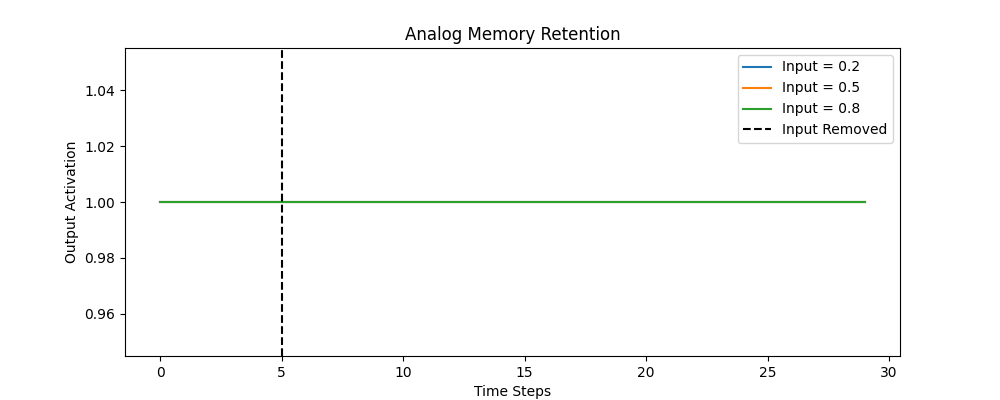
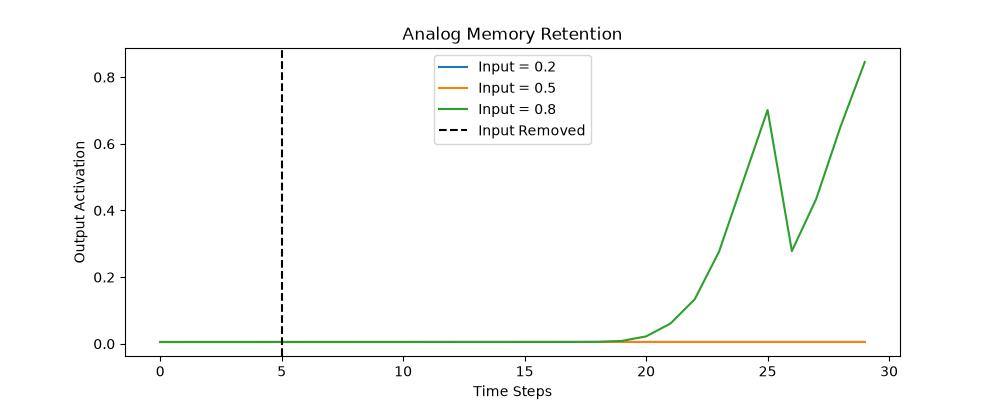
Fix threshold detection and analog memory trials carrying state over
ThresholdLogicComputer.threshold_detection and analog_memory ran each
signal strength / stored value on whatever state the previous trial left
in the network (membrane potentials, refractory counters, slow internal
state), so a result depended on which values had been tested before it
and on any simulation run earlier. Units and the network now have
reset(), and each trial starts from rest. Connections and unit
parameters are unchanged; temporal_integration is a single run and is
unchanged.

ThresholdLogicComputer moved to threshold_logic.py (re-exported from
threshold_computing and the package) to keep the module under 500 lines.
threshold_detection.png and analog_memory.png regenerated by the demo.

diff --git a/threshold_computing/threshold_computing.py b/threshold_computing/threshold_computing.py
@@ -42,6 +42,13 @@ class ThresholdComputingUnit:
         self.activation = 0.0  # Output activation level
         self.refractory_countdown = 0  # Refractory period counter
         self.internal_state = 0.0  # Internal memory (analogous to slow calcium buffers)
+
+    def reset(self):
+        """Return the unit to rest (parameters are kept)."""
+        self.membrane_potential = 0.0
+        self.activation = 0.0
+        self.refractory_countdown = 0
+        self.internal_state = 0.0
     
     def update(self, input_signal):
         """
@@ -141,6 +148,13 @@ class ThresholdComputingNetwork:
         
         return connections
     
+    def reset(self):
+        """Return every unit to rest and clear the history (connections and unit parameters are kept)."""
+        for unit in self.units.flat:
+            unit.reset()
+        self.activation_history = []
+        self.membrane_potential_history = []
+
     def set_input(self, input_pattern):
         """Set input to the network"""
         # Validate input pattern shape
@@ -331,90 +345,11 @@ class ThresholdComputingNetwork:
         
         return ani
 
-# Example application: Signal integration and threshold-based computation
-class ThresholdLogicComputer:
-    def __init__(self, network):
-        self.network = network
-    
-    def temporal_integration(self, input_sequence, duration=50):
-        """
-        Demonstrate temporal integration of weak signals.
-        
-        Parameters:
-        - input_sequence: Sequence of input patterns
-        - duration: Duration to run the simulation
-        
-        Returns:
-        - output_sequence: Sequence of outputs
-        """
-        # Pad input sequence if needed
-        if len(input_sequence) < duration:
-            padded_sequence = input_sequence + [np.zeros(len(self.network.input_region))] * (duration - len(input_sequence))
-        else:
-            padded_sequence = input_sequence[:duration]
-        
-        # Run simulation
-        outputs = self.network.run_simulation(steps=duration, input_patterns=padded_sequence)
-        
-        return outputs
-    
-    def threshold_detection(self, signal_strengths, duration_per_signal=20):
-        """
-        Demonstrate threshold detection with varying signal strengths.
-        
-        Parameters:
-        - signal_strengths: List of signal strengths to test
-        - duration_per_signal: Duration to apply each signal
-        
-        Returns:
-        - detection_results: Whether each signal was detected
-        """
-        detection_results = []
-        
-        for strength in signal_strengths:
-            # Create input pattern with given strength
-            input_pattern = [strength] * len(self.network.input_region)
-            input_sequence = [input_pattern] * duration_per_signal
-            
-            # Run simulation
-            outputs = self.network.run_simulation(steps=duration_per_signal, input_patterns=input_sequence)
-            
-            # Check if output exceeded detection threshold (0.5)
-            max_output = max([max(output) for output in outputs])
-            detected = max_output > 0.5
-            
-            detection_results.append((strength, max_output, detected))
-        
-        return detection_results
-    
-    def analog_memory(self, input_values, retention_time=30):
-        """
-        Demonstrate analog memory capabilities.
-        
-        Parameters:
-        - input_values: Input values to store
-        - retention_time: How long to check retention
-        
-        Returns:
-        - memory_trace: How values are retained over time
-        """
-        memory_traces = []
-        
-        for value in input_values:
-            # Set input
-            input_pattern = [value] * len(self.network.input_region)
-            
-            # Apply input for 5 steps then remove
-            input_sequence = [input_pattern] * 5 + [np.zeros(len(self.network.input_region))] * (retention_time - 5)
-            
-            # Run simulation
-            outputs = self.network.run_simulation(steps=retention_time, input_patterns=input_sequence)
-            
-            # Track output over time
-            output_trace = [max(output) for output in outputs]
-            memory_traces.append((value, output_trace))
-        
-        return memory_traces
+# Example applications (temporal integration, threshold detection, analog memory) live in threshold_logic.py
+if __package__:
+    from .threshold_logic import ThresholdLogicComputer
+else:  # run as a script
+    from threshold_logic import ThresholdLogicComputer  # noqa: E402
 
 # Example usage
 if __name__ == "__main__":

diff --git a/threshold_computing/threshold_logic.py b/threshold_computing/threshold_logic.py
@@ -1,0 +1,104 @@
+"""
+ThresholdLogicComputer -- applications of a ThresholdComputingNetwork.
+
+Temporal integration of weak signals, threshold detection over a range of
+signal strengths, and analog memory traces.
+"""
+
+import numpy as np
+
+
+class ThresholdLogicComputer:
+    def __init__(self, network):
+        self.network = network
+    
+    def temporal_integration(self, input_sequence, duration=50):
+        """
+        Demonstrate temporal integration of weak signals.
+        
+        Parameters:
+        - input_sequence: Sequence of input patterns
+        - duration: Duration to run the simulation
+        
+        Returns:
+        - output_sequence: Sequence of outputs
+        """
+        # Pad input sequence if needed
+        if len(input_sequence) < duration:
+            padded_sequence = input_sequence + [np.zeros(len(self.network.input_region))] * (duration - len(input_sequence))
+        else:
+            padded_sequence = input_sequence[:duration]
+        
+        # Run simulation
+        outputs = self.network.run_simulation(steps=duration, input_patterns=padded_sequence)
+        
+        return outputs
+    
+    def threshold_detection(self, signal_strengths, duration_per_signal=20):
+        """
+        Demonstrate threshold detection with varying signal strengths.
+        
+        Parameters:
+        - signal_strengths: List of signal strengths to test
+        - duration_per_signal: Duration to apply each signal
+        
+        Returns:
+        - detection_results: Whether each signal was detected
+
+        Each strength is tested on the network reset to rest, so results do not
+        depend on the order of signal_strengths.
+        """
+        detection_results = []
+        
+        for strength in signal_strengths:
+            # Each strength is tested on the network at rest
+            self.network.reset()
+
+            # Create input pattern with given strength
+            input_pattern = [strength] * len(self.network.input_region)
+            input_sequence = [input_pattern] * duration_per_signal
+            
+            # Run simulation
+            outputs = self.network.run_simulation(steps=duration_per_signal, input_patterns=input_sequence)
+            
+            # Check if output exceeded detection threshold (0.5)
+            max_output = max([max(output) for output in outputs])
+            detected = max_output > 0.5
+            
+            detection_results.append((strength, max_output, detected))
+        
+        return detection_results
+    
+    def analog_memory(self, input_values, retention_time=30):
+        """
+        Demonstrate analog memory capabilities.
+        
+        Parameters:
+        - input_values: Input values to store
+        - retention_time: How long to check retention
+        
+        Returns:
+        - memory_trace: How values are retained over time
+
+        Each value is stored in the network reset to rest.
+        """
+        memory_traces = []
+        
+        for value in input_values:
+            # Each value is stored in the network at rest
+            self.network.reset()
+
+            # Set input
+            input_pattern = [value] * len(self.network.input_region)
+            
+            # Apply input for 5 steps then remove
+            input_sequence = [input_pattern] * 5 + [np.zeros(len(self.network.input_region))] * (retention_time - 5)
+            
+            # Run simulation
+            outputs = self.network.run_simulation(steps=retention_time, input_patterns=input_sequence)
+            
+            # Track output over time
+            output_trace = [max(output) for output in outputs]
+            memory_traces.append((value, output_trace))
+        
+        return memory_traces

diff --git a/threshold_computing/__init__.py b/threshold_computing/__init__.py
@@ -3,8 +3,9 @@
 Contains:
 - ThresholdComputingUnit: Single threshold unit
 - ThresholdComputingNetwork: Network of threshold units
-- ThresholdLogicComputer: Applications (temporal integration, detection, memory)
+- ThresholdLogicComputer (threshold_logic.py): Applications (temporal integration, detection, memory)
 """
-from .threshold_computing import ThresholdComputingUnit, ThresholdComputingNetwork, ThresholdLogicComputer
+from .threshold_computing import ThresholdComputingUnit, ThresholdComputingNetwork
+from .threshold_logic import ThresholdLogicComputer
 
 __all__ = ['ThresholdComputingUnit', 'ThresholdComputingNetwork', 'ThresholdLogicComputer']
